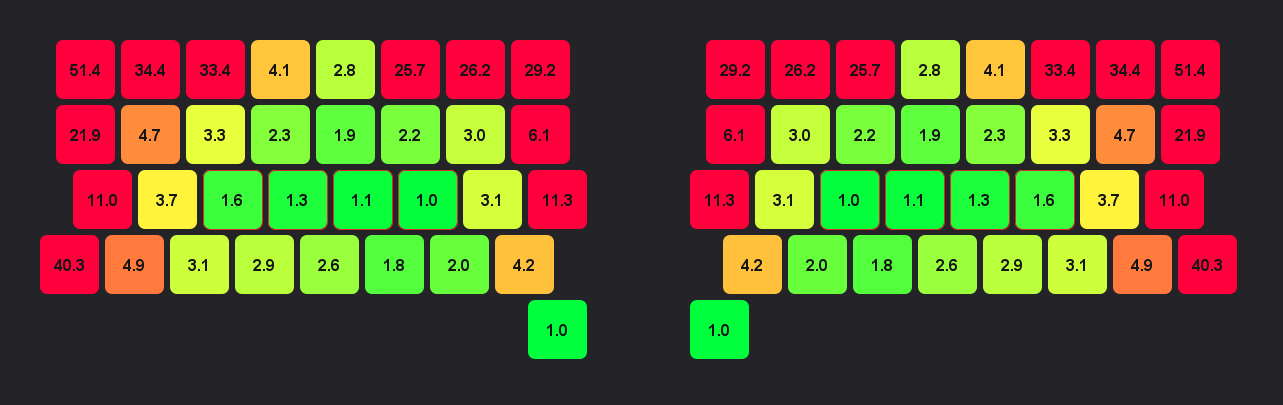
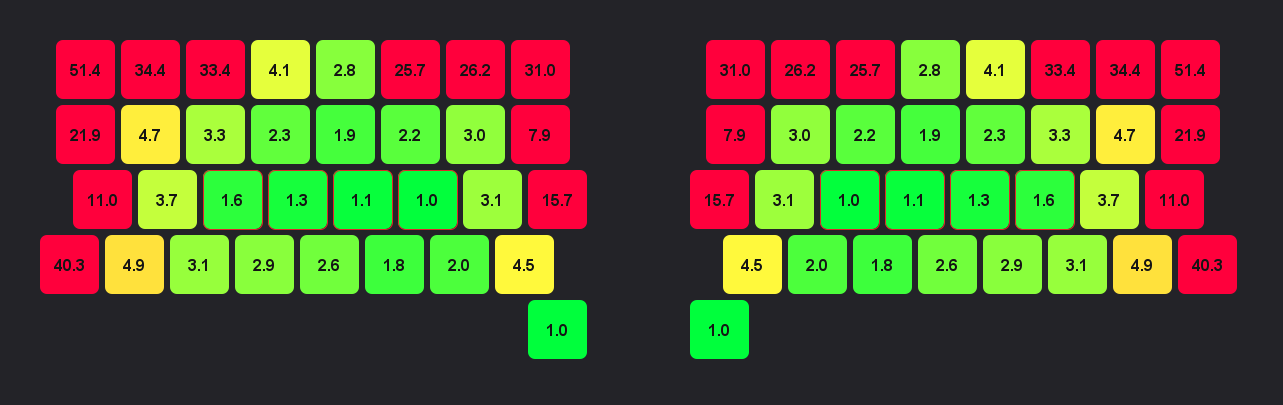
added effort metric exports, qwertzergorowstagger layout, and updated finger reach
- added raw metric logging and file exports for char reach, base gravity, total effort, and space SFS-1 penalty in complete layout analysis.kt, layout_effort_analysis.kt, and sfs analysis.kt
- added effort, SFS-1 penalty, stretch, and scissor columns to metricKeys in summaryTable.kt
- updated maxComfortReachX values in KeyboardHalf.kt
- added qwertzergorowstagger layout in keyboards
- updated blankcolstagger_heatmap.png, keebFourBlank_heatmap.png, and standardkeyboard_heatmap.png in effortgrids

diff --git a/src/main/kotlin/keyboard_analysis/complete layout analysis.kt b/src/main/kotlin/keyboard_analysis/complete layout analysis.kt
@@ -99,16 +99,19 @@ fun completeLayoutAnalysis(
 ): LayoutAnalysisResult {
 
     if (verbose) {
+        // hogyha egy darab layoutot elemzünk, akkor ki fogjuk írni a végeredményt fájlba, és először töröljük a fájlban levő adatokat, hogy appendeljük az új információt
+        clearRawMetrics(corpusData.datasetName, layoutData.name)
         println("--------------------------------------------------")
         println("1. Effort (Fizikai Terhelés) számítása...")
     }
     val charEffortMap = layoutData.buildCharEffortMap()
-    val charReachEffort = calculateWeightedReachEffortSum(charEffortMap, corpusData, verbose)
-
-    if (verbose){
-        //hogyha egy darab layoutot elemzünk, akkor ki fogjuk írni a végeredményt fájlba, és először töröljük a fájlban levő adatokat, hogy appendeljük az új információt
-        clearRawMetrics(corpusData.datasetName, layoutData.name)
-    }
+    val charReachEffort = calculateWeightedReachEffortSum(
+        charEffortMap = charEffortMap,
+        corpus = corpusData,
+        verbose = verbose,
+        layoutName = layoutData.name,
+        datasetName = corpusData.datasetName
+    )
 
 
     if (verbose) println("--------------------------------------------------")
@@ -291,7 +294,13 @@ val halfScissorPercentage = halfScissorAnalysis(
     datasetName = corpusData.datasetName
 )
 
-    val baseGravityEffort = charEffortMap.values.sum()
+    if (verbose) println("--------------------------------------------------")
+    val baseGravityEffort = baseGravityEffortAnalysis(
+        charEffortMap = charEffortMap,
+        verbose = verbose,
+        layoutName = layoutData.name,
+        datasetName = corpusData.datasetName
+    )
 
 // Előzetes eredményobjektum összeállítása
     val preliminaryResult = LayoutAnalysisResult(
@@ -310,13 +319,28 @@ val halfScissorPercentage = halfScissorAnalysis(
         redirectPercentage = redirectPercentage,
         spaceSfs1Penalty = spaceSfs1Penalty,
         lateralStretchPercentage = lateralStretchPercentage,
-        pinkystretchPercentage =pinkyStretchPercentage ,
+        pinkystretchPercentage = pinkyStretchPercentage,
         fullScissorPercentage = fullScissorPercentage,
         halfScissorPercentage = halfScissorPercentage,
         baseGravityEffort = baseGravityEffort
     )
 
     val totalEffort = calculateTotalEffort(preliminaryResult)
+
+    if (verbose) {
+        println("--------------------------------------------------")
+        val resultDir = File("analysis_results/${corpusData.datasetName}/${layoutData.name}")
+        resultDir.mkdirs()
+        val outputFile = File(resultDir, "total_effort_analyzed.txt")
+
+        outputFile.bufferedWriter().use { writer ->
+            writer.write("Összesített Effort (Total Effort): %.4f".format(totalEffort))
+            writer.newLine()
+        }
+        saveRawMetric(corpusData.datasetName, layoutData.name, "total_effort", totalEffort)
+        println("Sikeresen végrehajtva: ${outputFile.path} létrehozva. (Total Effort: %.4f)".format(totalEffort))
+    }
+
     return preliminaryResult.copy(totalEffort = totalEffort)
 }
 

diff --git a/src/main/kotlin/keyboard_analysis/layout_effort_analysis.kt b/src/main/kotlin/keyboard_analysis/layout_effort_analysis.kt
@@ -1,12 +1,15 @@
 package keyboard_analysis
 
+import java.io.File
+
 fun calculateWeightedReachEffortSum(
     charEffortMap: Map<Char, Double>,
     corpus: CorpusData,
-    verbose: Boolean = false
+    verbose: Boolean = false,
+    layoutName: String = "",
+    datasetName: String = corpus.datasetName
 ): Double {
-    // Ha a korpusz üres, ne adjunk vissza fals értéket
-    if (corpus.spaceincludedletters.isEmpty()) return 0.0
+    if (verbose) println("Karakter-elérési terhelés (Char Reach Effort) elemzése folyamatban...")
 
     var weightedEffortSum = 0.0
 
@@ -30,8 +33,53 @@ fun calculateWeightedReachEffortSum(
     }
 
     if (verbose) {
-        println("Átlagos súlyozott leütési terhelés (Char Reach Effort): ${String.format("%.4f", weightedEffortSum)}")
+        if (layoutName.isNotEmpty() && datasetName.isNotEmpty()) {
+            val resultDir = File("analysis_results/$datasetName/$layoutName")
+            resultDir.mkdirs()
+            val outputFile = File(resultDir, "char_reach_effort_analyzed.txt")
+
+            outputFile.bufferedWriter().use { writer ->
+                writer.write("Átlagos súlyozott leütési terhelés (Char Reach Effort): %.4f".format(weightedEffortSum))
+                writer.newLine()
+            }
+            saveRawMetric(datasetName, layoutName, "char_reach_effort", weightedEffortSum)
+            println("Sikeresen végrehajtva: ${outputFile.path} létrehozva. (Char Reach Effort: %.4f)".format(weightedEffortSum))
+        } else {
+            println("Átlagos súlyozott leütési terhelés (Char Reach Effort): ${String.format("%.4f", weightedEffortSum)}")
+        }
     }
 
     return weightedEffortSum
+}
+
+fun baseGravityEffortAnalysis(
+    charEffortMap: Map<Char, Double>,
+    verbose: Boolean = false,
+    layoutName: String = "",
+    datasetName: String = ""
+): Double {
+    if (verbose) println("Base Gravity Effort (Karakterek alap fizikai terhelése) elemzése folyamatban...")
+
+    val baseGravityEffort = charEffortMap.values.sum()
+
+    if (verbose) {
+        if (layoutName.isNotEmpty() && datasetName.isNotEmpty()) {
+            val resultDir = File("analysis_results/$datasetName/$layoutName")
+            resultDir.mkdirs()
+            val outputFile = File(resultDir, "base_gravity_effort_analyzed.txt")
+
+            outputFile.bufferedWriter().use { writer ->
+                writer.write("Teljes Base Gravity Effort (Karakterek fizikai effort összege): %.4f".format(baseGravityEffort))
+                writer.newLine()
+                writer.write("Kiosztáson szereplő karakterek száma: ${charEffortMap.size}")
+                writer.newLine()
+            }
+            saveRawMetric(datasetName, layoutName, "base_gravity_effort", baseGravityEffort)
+            println("Sikeresen végrehajtva: ${outputFile.path} létrehozva. (Base Gravity Effort: %.4f)".format(baseGravityEffort))
+        } else {
+            println("Base Gravity Effort: ${String.format("%.4f", baseGravityEffort)}")
+        }
+    }
+
+    return baseGravityEffort
 }

diff --git a/src/main/kotlin/EffortModel/KeyboardHalf.kt b/src/main/kotlin/EffortModel/KeyboardHalf.kt
@@ -26,15 +26,15 @@ enum class Finger(
     var maxComfortReachX: Double
 ) {
     THUMB(baseEffort = 1.0, homeOffsetX = 0.0, homeOffsetY = 0.0, maxComfortReachY = 1.5, maxComfortReachX = 1.1),
-    INDEX(baseEffort = 1.0, homeOffsetX = -0.04, homeOffsetY = -0.32, maxComfortReachY = 1.05, maxComfortReachX = 1.1),
-    MIDDLE(baseEffort = 1.1, homeOffsetX = 0.03, homeOffsetY = 0.16, maxComfortReachY = 1.4848, maxComfortReachX = 0.8), // Leghosszabb
-    RING(baseEffort = 1.3, homeOffsetX = 0.00, homeOffsetY = 0.14, maxComfortReachY = 1.25, maxComfortReachX = 0.8),
+    INDEX(baseEffort = 1.0, homeOffsetX = -0.04, homeOffsetY = -0.32, maxComfortReachY = 1.05, maxComfortReachX = 0.98),//qwerty b és kisujj szélső billentyűk eléréséhez kalibrálva 25-ös együtthatóval
+    MIDDLE(baseEffort = 1.1, homeOffsetX = 0.03, homeOffsetY = 0.16, maxComfortReachY = 1.4848, maxComfortReachX = 0.9), // Leghosszabb
+    RING(baseEffort = 1.3, homeOffsetX = 0.00, homeOffsetY = 0.14, maxComfortReachY = 1.25, maxComfortReachX = 0.9),
     PINKY(baseEffort = 1.6, homeOffsetX = 0.01, homeOffsetY = -0.15, maxComfortReachY = 0.8, maxComfortReachX = 1.1); // Legrövidebb, hamar "falba ütközik"
 
     companion object {
         fun resetDefaults() {
             THUMB.apply { baseEffort = 1.0; homeOffsetX = 0.0; homeOffsetY = 0.0; maxComfortReachY = 1.5; maxComfortReachX = 1.1 }
-            INDEX.apply { baseEffort = 1.0; homeOffsetX = -0.04; homeOffsetY = -0.32; maxComfortReachY = 1.05; maxComfortReachX = 0.95 }
+            INDEX.apply { baseEffort = 1.0; homeOffsetX = -0.04; homeOffsetY = -0.32; maxComfortReachY = 1.05; maxComfortReachX = 1.1 }
             MIDDLE.apply { baseEffort = 1.1; homeOffsetX = 0.03; homeOffsetY = 0.16; maxComfortReachY = 1.4848; maxComfortReachX = 0.8 }
             RING.apply { baseEffort = 1.3; homeOffsetX = 0.00; homeOffsetY = 0.14; maxComfortReachY = 1.25; maxComfortReachX = 0.8 }
             PINKY.apply { baseEffort = 1.6; homeOffsetX = 0.01; homeOffsetY = -0.15; maxComfortReachY = 0.8; maxComfortReachX = 1.1 }

diff --git a/src/main/kotlin/keyboard_analysis/summaryTable.kt b/src/main/kotlin/keyboard_analysis/summaryTable.kt
@@ -40,13 +40,20 @@ fun generateSummaryCsv(datasetName: String) {
 
     // Itt definiáljuk a CSV oszlopait és azok sorrendjét
     val metricKeys = listOf(
+        "total_effort",
+        "char_reach_effort",
+        "base_gravity_effort",
         "left_hand", "right_hand",
         "row_home",
-        "sfb_total", "space_sfs1_total",
+        "sfb_total", "space_sfs1_total", "space_sfs1_penalty",
         "alternation_total",
         "2roll", "3roll",
         "redirect_total",
-        "pinky_off"
+        "pinky_off",
+        "lateral_stretch_total",
+        "pinky_stretch_total",
+        "full_scissor_total",
+        "half_scissor_total"
     )
 
     val summaryFile = File(baseDir, "összesítő_táblázat.csv")

diff --git a/src/main/kotlin/keyboard_analysis/sfs analysis.kt b/src/main/kotlin/keyboard_analysis/sfs analysis.kt
@@ -155,6 +155,7 @@ fun spaceSfs1Analysis(
             for (i in 0 until 10) { writer.write("${fingerNames[i]}: %.4f%%".format(fingerSfs1[i])); writer.newLine() }
         }
         saveRawMetric(datasetName, rawLayoutName, "space_sfs1_total", totalSfs1)
+        saveRawMetric(datasetName, rawLayoutName, "space_sfs1_penalty", totalSfsPenalty)
         println("Sikeresen végrehajtva: ${outputFile.path} létrehozva. (Teljes Space SFS-1 Penalty: %.4f)".format(totalSfsPenalty))
     }
 
